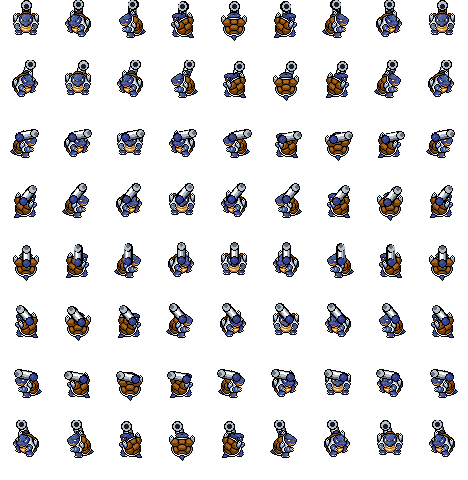
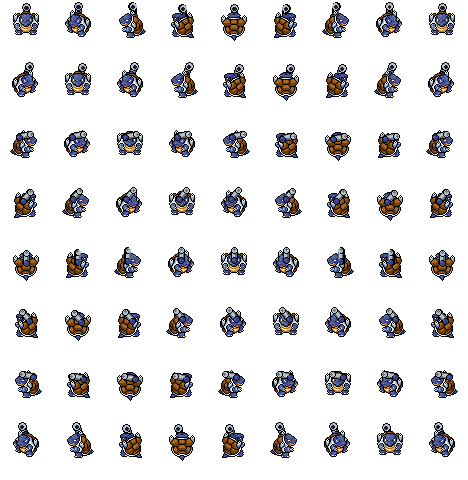
Mega Blastoise: smaller shell cannon
Thinner barrel, shorter reach, smaller muzzle and mount, so the cannon sits
in proportion with the body. The generator also skips copying the portrait
onto itself when rerun in place.

diff --git a/scripts/mega-blastoise.py b/scripts/mega-blastoise.py
@@ -61,31 +61,31 @@ def cannon(size, box, row):
         # all we see is its muzzle peeking up above
         bx = PAD + (l + r) / 2 + dx * 2
         by = PAD + t + 3
-        tx = bx + dx * 5
-        ty = PAD + t - 6
+        tx = bx + dx * 4
+        ty = PAD + t - 4
     else:
         # the barrel runs forward along the facing, over the head: level side-on, and
         # foreshortened (rising up the screen) when it points away from us
-        length = 15 if row in (2, 6) else 13
-        lift = 3 if row in (2, 6) else 7
+        length = 11 if row in (2, 6) else 9
+        lift = 2 if row in (2, 6) else 5
         tx = bx + dx * length
         ty = by + dy * length * 0.45 - lift
-    thick(d, bx, by, tx, ty, 4, OUTLINE)
-    thick(d, bx, by, tx, ty, 3, DARK)
-    thick(d, bx - 0.5, by - 1, tx - 0.5, ty - 1, 2, MID)
-    thick(d, bx - 1, by - 2, tx - 1, ty - 2, 0.5, LIGHT)
+    thick(d, bx, by, tx, ty, 3, OUTLINE)
+    thick(d, bx, by, tx, ty, 2, DARK)
+    thick(d, bx - 0.5, by - 0.5, tx - 0.5, ty - 0.5, 1, MID)
+    thick(d, bx - 1, by - 1.5, tx - 1, ty - 1.5, 0, LIGHT)
     # the muzzle, opening toward wherever it points
-    big = 5 if row in (0, 1, 7) else 4
+    big = 4 if row in (0, 1, 7) else 3
     disc(d, tx, ty, big, OUTLINE)
     disc(d, tx, ty, big - 1, MID)
     if dy > 0.3:
-        disc(d, tx, ty + 0.5, 2, HOLE)  # pointing at us: we look down the barrel
+        disc(d, tx, ty + 0.5, 1.5, HOLE)  # pointing at us: we look down the barrel
     else:
-        disc(d, tx + dx * 1.5, ty + dy * 1.5, 1.5, DARK)
+        disc(d, tx + dx, ty + dy, 1, DARK)
     # the mount, bolted to the shell
-    disc(d, bx, by + 1, 4, OUTLINE)
-    disc(d, bx, by + 1, 3, MOUNT)
-    disc(d, bx - 1, by, 1, MOUNT_LIGHT)
+    disc(d, bx, by + 1, 3, OUTLINE)
+    disc(d, bx, by + 1, 2, MOUNT)
+    disc(d, bx - 1, by, 0.5, MOUNT_LIGHT)
     return layer
 
 
@@ -124,7 +124,8 @@ for name, a in meta["anims"].items():
         sheets_done[sheet] = True
     out["anims"][name] = {**a, "w": nw, "h": nh}
 json.dump(out, open(os.path.join(DST, "anims.json"), "w"), indent=1)
-shutil.copy(PORTRAIT, os.path.join(DST, "portrait.png"))
+if os.path.abspath(PORTRAIT) != os.path.abspath(os.path.join(DST, "portrait.png")):
+    shutil.copy(PORTRAIT, os.path.join(DST, "portrait.png"))
 
 # a preview: Idle and Walk, every direction, 4x
 prev = Image.new("RGBA", (8 * 60 * 4, 2 * 60 * 4), (70, 70, 90, 255))
